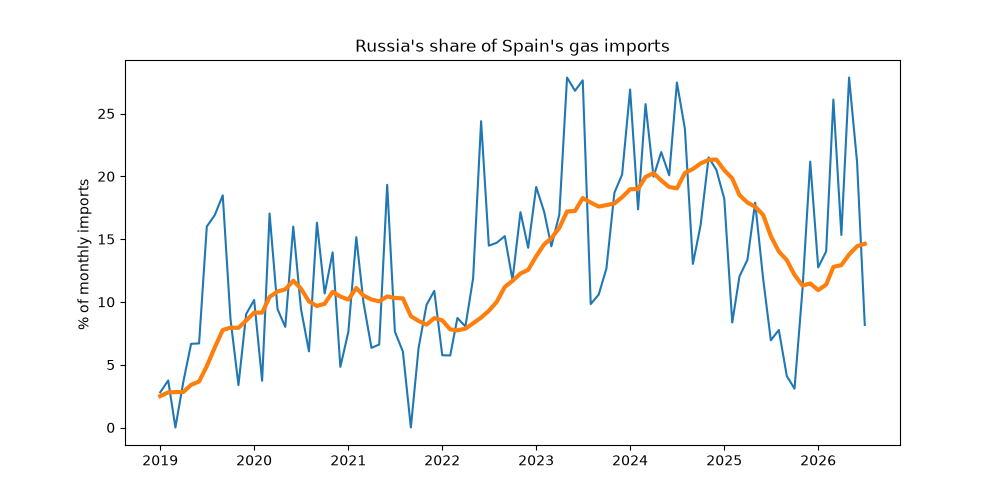
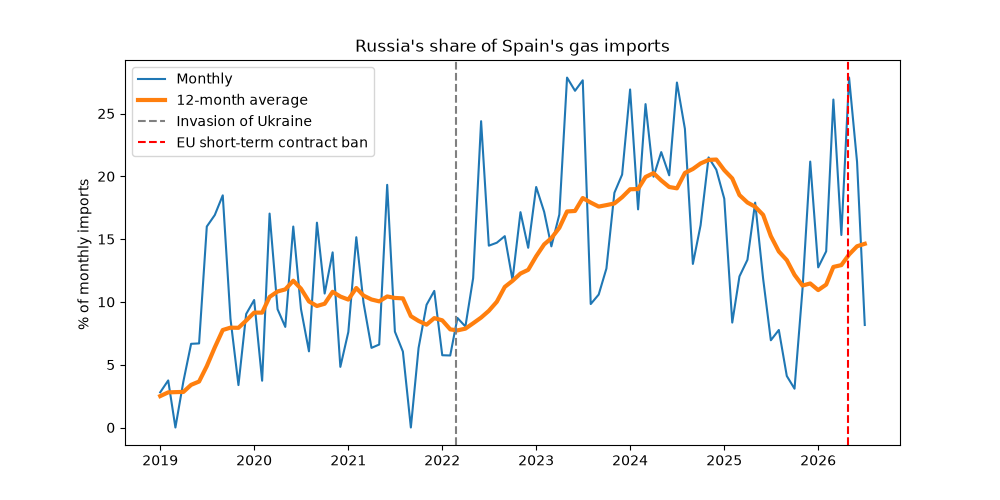
Add legend and event markers to chart

Changed region(s): [[0.124, 0.15, 0.372, 0.3]]

diff --git a/src/analysis.py b/src/analysis.py
@@ -17,8 +17,11 @@ smooth = russia.rolling(12).sum() / total.rolling(12).sum() * 100
 smooth = smooth[smooth.index >= "2019-01-01"]
 
 plt.figure(figsize=(10, 5))
-plt.plot(recent.index, recent.values)
-plt.plot(smooth.index, smooth.values, linewidth=3)
+plt.plot(recent.index, recent.values, label="Monthly")
+plt.plot(smooth.index, smooth.values, linewidth=3, label="12-month average")
 plt.title("Russia's share of Spain's gas imports")
 plt.ylabel("% of monthly imports ")
+plt.axvline(pd.Timestamp("2022-02-24"), color="grey", linestyle="--", label="Invasion of Ukraine")
+plt.axvline(pd.Timestamp("2026-04-25"), color="red", linestyle="--", label="EU short-term contract ban")
+plt.legend()
 plt.savefig("charts/russia_share.png")
